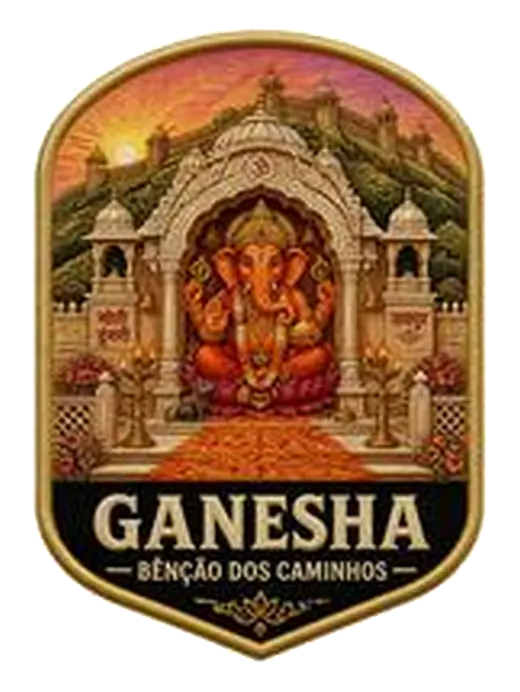
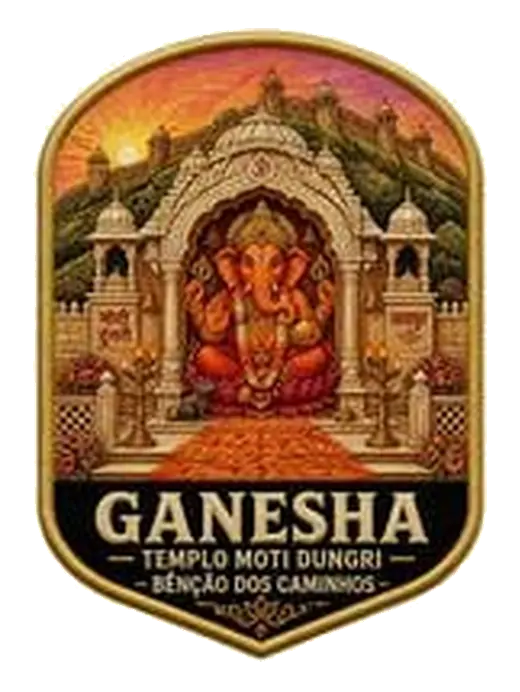
Selo de Ganesha com o nome do templo (Moti Dungri)
Claude-Session: https://claude.ai/code/session_019kqAkVGodtTPLnZ4JhFLF3

diff --git a/app/index.html b/app/index.html
@@ -7,7 +7,7 @@
 <link rel="icon" href="img/icone-192.png">
 <link rel="apple-touch-icon" href="img/icone-192.png">
 <link rel="manifest" href="manifest.webmanifest">
-<script>window.__VERSAO = "27/09 · 09:47";</script>
+<script>window.__VERSAO = "27/09 · 09:48";</script>
 <script src="config.js"></script>
 <script src="shim.js"></script>
 <style>*,*::before,*::after{box-sizing:border-box}html,body{margin:0;height:100%}</style>
@@ -999,7 +999,7 @@ const localDe = id => S.locais.find(l => l.id === id);
 // selos que saíram da travessia (a visita não acontece mais): somem do passaporte e do mapa; o saber ligado a eles fica livre
 const REMOVIDOS = ["galta-ji", "beatles-ashram"];
 const EXTRAS = [
-  { id: "ganesha", nome: "Bênção dos Caminhos", insignia: "ganesha", cidadeId: "jaipur", dia: 4, ordem: 3.9, codigo: "ganapati", lat: 26.8950, lng: 75.8176, busca: "Moti Dungri Ganesh Temple Jaipur", aberto: false,
+  { id: "ganesha", nome: "Ganesha · Moti Dungri", insignia: "ganesha", cidadeId: "jaipur", dia: 4, ordem: 3.9, codigo: "ganapati", lat: 26.8950, lng: 75.8176, busca: "Moti Dungri Ganesh Temple Jaipur", aberto: false,
     descricao: "O templo de Ganesha aos pés do forte de Moti Dungri, onde se pede a bênção que abre os caminhos.", dica: "Antes de tudo, saudar quem remove os obstáculos." },
   { id: "govind-dev-ji", nome: "Darshan de Krishna", insignia: "govind-dev-ji", cidadeId: "jaipur", dia: 4, ordem: 4.5, codigo: "govinda", lat: 26.9294, lng: 75.8235, busca: "Govind Dev Ji Temple Jaipur", aberto: false,
     descricao: "O templo de Krishna dentro do Palácio da Cidade de Jaipur, onde as cortinas se abrem para o darshan, o encontro com o olhar da divindade.", dica: "As cortinas se abrem e Krishna olha de volta." },

diff --git a/app/caravana-do-ceu.html b/app/caravana-do-ceu.html
@@ -985,7 +985,7 @@ const localDe = id => S.locais.find(l => l.id === id);
 // selos que saíram da travessia (a visita não acontece mais): somem do passaporte e do mapa; o saber ligado a eles fica livre
 const REMOVIDOS = ["galta-ji", "beatles-ashram"];
 const EXTRAS = [
-  { id: "ganesha", nome: "Bênção dos Caminhos", insignia: "ganesha", cidadeId: "jaipur", dia: 4, ordem: 3.9, codigo: "ganapati", lat: 26.8950, lng: 75.8176, busca: "Moti Dungri Ganesh Temple Jaipur", aberto: false,
+  { id: "ganesha", nome: "Ganesha · Moti Dungri", insignia: "ganesha", cidadeId: "jaipur", dia: 4, ordem: 3.9, codigo: "ganapati", lat: 26.8950, lng: 75.8176, busca: "Moti Dungri Ganesh Temple Jaipur", aberto: false,
     descricao: "O templo de Ganesha aos pés do forte de Moti Dungri, onde se pede a bênção que abre os caminhos.", dica: "Antes de tudo, saudar quem remove os obstáculos." },
   { id: "govind-dev-ji", nome: "Darshan de Krishna", insignia: "govind-dev-ji", cidadeId: "jaipur", dia: 4, ordem: 4.5, codigo: "govinda", lat: 26.9294, lng: 75.8235, busca: "Govind Dev Ji Temple Jaipur", aberto: false,
     descricao: "O templo de Krishna dentro do Palácio da Cidade de Jaipur, onde as cortinas se abrem para o darshan, o encontro com o olhar da divindade.", dica: "As cortinas se abrem e Krishna olha de volta." },
